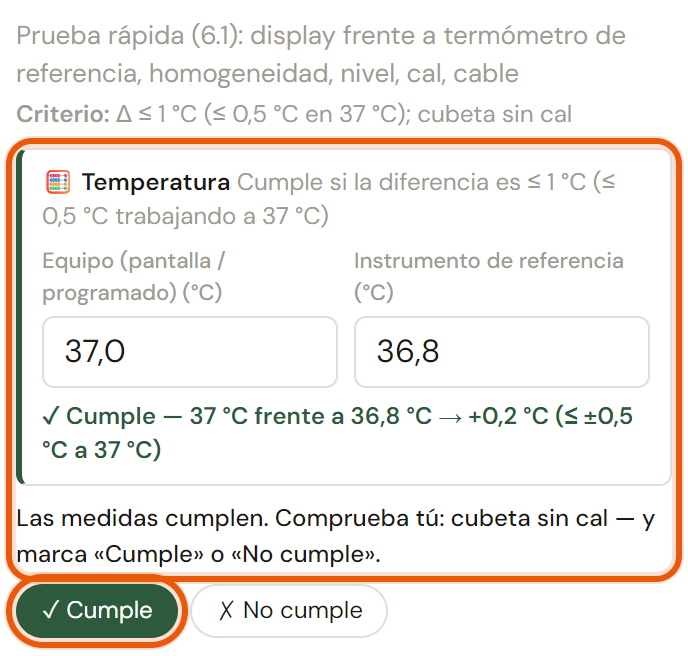
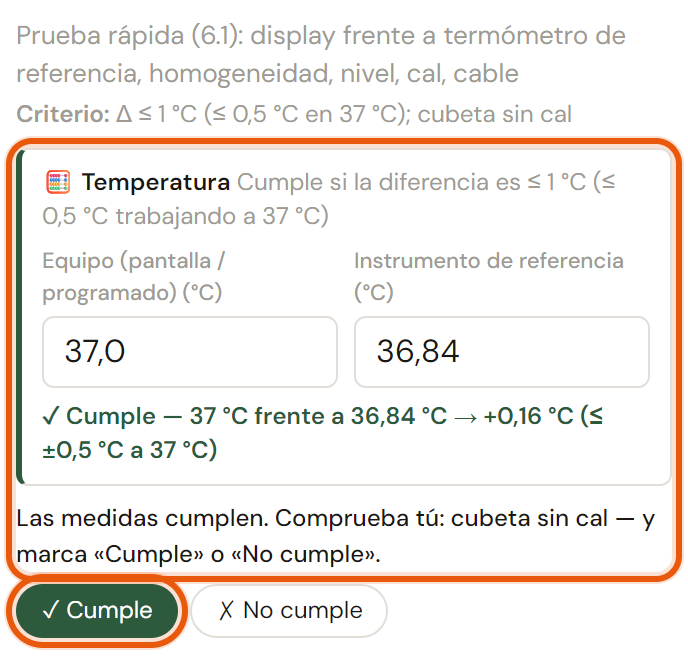
Ayuda › MAN-2: guion con la calculadora de criterios y lo que cambian los arreglos de hoy
- Paso 5: anotar las dos lecturas completas, sin redondear; paso 7: código del instrumento
  de referencia en Observaciones; puntos 1 y 2 de «Si una comprobación no cumple» del guion.
- Si algo no sale: equipos de otro laboratorio (sin plan a la vista) y aviso abierto.
- El aviso de avería dice adónde llega; título de EMP-2; sección «Cuando toca mantenimiento».
- Capturas rehechas.

Changed region(s): [[0.5799, 0.6098, 0.9157, 0.6707], [0.061, 0.6707, 0.3358, 0.7012], [0.641, 0.5183, 0.6715, 0.5488]]

diff --git a/js/ayuda.js b/js/ayuda.js
@@ -22,7 +22,7 @@ const AYUDA_MANUALES = {
     titulo: 'Manual del alumnado',
     intro: 'Lo que hace tu grupo en GestionLab, contado como tareas de laboratorio. Entras con la cuenta del grupo, y lo que registras sale a nombre del grupo.',
     secciones: [
-      { titulo: 'Mantenimiento de los equipos', tareas: ['MAN-2'] },
+      { titulo: 'Cuando toca mantenimiento', tareas: ['MAN-2'] },
     ],
   },
   Profesor: { titulo: 'Manual del profesorado', intro: '', secciones: [] },
@@ -77,7 +77,7 @@ const AYUDA_TAREAS = {
             texto: '**Hacer cada paso en el equipo y marcar su casilla al terminarlo**, no antes ni todos al final: el registro tiene que decir lo que se hizo, y marcar de memoria al final acaba marcando pasos que no se hicieron. Arriba a la derecha, el contador dice cuántos pasos van.',
           },
           {
-            texto: '**En las comprobaciones** (los pasos que llevan «Criterio:» debajo): medir y comparar con el criterio. Si el paso trae 🧮, escribir lo que marca el equipo y lo que mide el instrumento de referencia: la app hace la cuenta y dice si cumple; si no cumple, marca ella «✗ No cumple» y escribe las cifras en «¿Qué has visto?». Lo que no se mide con números aparece como «Comprueba tú: …»: mirarlo y pulsar «✓ Cumple» o «✗ No cumple». Si se pulsa el botón equivocado, pulsarlo otra vez lo desmarca.',
+            texto: '**En las comprobaciones** (los pasos que llevan «Criterio:» debajo): medir, comparar con el criterio y pulsar «✓ Cumple» o «✗ No cumple». Si el criterio lleva números, el paso trae 🧮 y pide lo que marca el equipo y lo que mide el instrumento de referencia: **anotar las dos lecturas completas, tal como salen (todos los decimales, sin redondear)**. La app hace la cuenta y decide sola si cumple; si no cumple, marca ella «✗ No cumple» y escribe las cifras en «¿Qué has visto?». Lo que no se mide con números aparece como «Comprueba tú: …»: mirarlo y pulsar «✓ Cumple» o «✗ No cumple». Si se pulsa el botón equivocado, pulsarlo otra vez lo desmarca.',
             img: 'MAN-2/04-comprobacion-con-calculadora.png',
             alt: 'Comprobación con calculadora: lectura del equipo y del termómetro de referencia, la app dice que cumple y se pulsa Cumple',
           },
@@ -90,7 +90,7 @@ const AYUDA_TAREAS = {
             texto: '**Si hay que parar**: «💾 Guardar progreso». Otro día, en la tarjeta del equipo saldrá «Continuar n/m» con lo que ya estaba marcado. Lo puede continuar cualquier grupo: el progreso es del equipo, no del grupo.',
           },
           {
-            texto: '**Escribir en «Observaciones»** lo que no esté en los pasos, como un paso que no se pudo hacer y por qué, algo raro en el equipo o los valores medidos si el protocolo pide anotarlos. «Fecha de realización» ya trae la de hoy y «Realizado por» ya trae el nombre del grupo.',
+            texto: '**Escribir en «Observaciones»** el código del instrumento de referencia que se ha usado (por ejemplo, TER-02 o TAC-01), para saber qué comprobaciones revisar si un día ese instrumento resulta estar mal; y lo que no esté en los pasos, como un paso que no se pudo hacer y por qué, algo raro en el equipo o los valores medidos si el protocolo pide anotarlos. «Fecha de realización» ya trae la de hoy y «Realizado por» ya trae el nombre del grupo.',
             img: 'MAN-2/06-observaciones-y-finalizar.png',
             alt: 'Parte de abajo de la ventana: fecha, realizado por, observaciones, aviso de visto bueno y botón Finalizar señalado',
           },
@@ -98,7 +98,7 @@ const AYUDA_TAREAS = {
             texto: '**Pulsar «Finalizar».** Si queda un paso sin marcar, la app pide confirmación («Quedan … paso(s) sin marcar»): confirmar solo si ese paso no aplica a este equipo y está explicado en Observaciones. Al terminar sale «Registrado. Queda a la espera del visto bueno del profesorado.»',
           },
           {
-            texto: '**Si alguna comprobación no cumplía, se abre «Notificar aviso»** con la descripción ya rellenada. Elegir en «¿Se puede seguir usando el equipo?» si se puede seguir usando y pulsar «Enviar aviso».',
+            texto: '**Si alguna comprobación no cumplía, se abre «Notificar aviso»** con la descripción ya rellenada. Elegir en «¿Se puede seguir usando el equipo?» si se puede seguir usando y pulsar «Enviar aviso». El aviso aparece en GestionLab al profesorado responsable del equipo y a quien abra el equipo; no se manda ningún correo.',
             img: 'MAN-2/07-aviso-de-averia.png',
             alt: 'Ventana Notificar aviso con la descripción ya escrita y las opciones de si se puede seguir usando el equipo',
           },
@@ -108,8 +108,8 @@ const AYUDA_TAREAS = {
             titulo: 'Si una comprobación no cumple',
             numerada: true,
             items: [
-              '**Antes de marcar «✗ No cumple», revisar cómo se ha hecho la comprobación**: lo que pida el protocolo (equipo nivelado o a temperatura, material de referencia correcto y limpio, lectura en las mismas unidades que el criterio). Si hay un error de procedimiento, corregirlo y repetir una vez. Si no lo hay, **no repetir hasta que salga bien**: un resultado que no cumple es un dato, y repetir hasta que cumpla lo esconde.',
-              '**Marcar «✗ No cumple» y escribir en «¿Qué has visto?» el valor medido, el criterio y las condiciones**, con números («lectura: …; criterio: …; condiciones: …»), no «no va bien». Quien firma y quien repare el equipo trabajan con esos datos.',
+              '**Antes de marcar «✗ No cumple», revisar cómo se ha hecho la comprobación**: lo que pida el protocolo (equipo nivelado o a temperatura, material de referencia correcto y limpio, lectura en las mismas unidades que el criterio). Si hay un error de procedimiento, corregirlo y repetir una vez. Si no lo hay, **no repetir hasta que salga bien ni cambiar las cifras para que la app diga «Cumple»**: un resultado que no cumple es un dato, y repetir o retocar hasta que cumpla lo esconde.',
+              '**Completar «¿Qué has visto?»**. Si la app ha decidido con las cifras, ya las ha escrito ahí: añadir las condiciones (dónde estaba la sonda o la pesa, cuánto tiempo se dejó estabilizar, qué instrumento de referencia se usó). Si no, marcar «✗ No cumple» y escribir el valor medido, el criterio y las condiciones, con números, no «no va bien». Quien firma y quien repare el equipo trabajan con esos datos.',
               '**Seguir con los demás pasos, salvo que el fallo sea peligroso** (calor, presión, electricidad, piezas que giran) **o el protocolo diga parar**. En ese caso, dejar el equipo como indique el apartado 10 de su protocolo y llamar al profesorado antes de seguir.',
               '**Hacer lo que diga el apartado 10, «Resolución de problemas», del protocolo para ese fallo.** En muchos equipos incluye poner la etiqueta «NO USAR».',
               '**En el aviso de avería, elegir con criterio si se puede seguir usando**: si los resultados del equipo dejan de ser fiables (una balanza que pesa mal, una estufa fuera de temperatura), elegir «No funciona». Un equipo que mide mal no sirve aunque encienda.',
@@ -126,16 +126,18 @@ const AYUDA_TAREAS = {
         problemas: [
           ['No sale «Registrar», solo «Pendiente»', 'ese mantenimiento lo hace el profesorado (🔒 solo profesorado) o una empresa.'],
           ['El mantenimiento no está en la lista', 'puede que todavía no toque (solo salen los que ya han vencido), que otro grupo ya lo haya finalizado (está esperando el visto bueno) o que el profesorado lo haya marcado como «no aplica» o lo haya aplazado.'],
+          ['La tarjeta del equipo no enseña su plan de mantenimiento', 'el equipo no está en un laboratorio de tu grupo: cada grupo ve y registra los mantenimientos de los equipos de sus laboratorios y de la zona común. Los de los demás los hace otro grupo o el profesorado.'],
+          ['La tarjeta del equipo enseña un aviso abierto («🚫 No funciona», por ejemplo)', 'léelo y pregunta al profesorado antes de empezar.'],
           ['Estaba empezado', '«Continuar n/m» y seguir desde donde se dejó.'],
           ['Se ha marcado un paso por error', 'desmarcarlo antes de finalizar. Si ya está finalizado, decírselo al profesorado, que puede devolverlo para corregirlo.'],
           ['Un paso no se puede hacer (falta material, el equipo no tiene esa pieza)', 'no marcarlo, explicarlo en Observaciones y avisar al profesorado. Si falta material, guardar el progreso y terminar otro día.'],
-          ['Al guardar sale «Tu sesión ha caducado»', 'volver a entrar ([[EMP-2|La app no guarda lo que apuntas]]) y comprobar qué quedó guardado.'],
+          ['Al guardar sale «Tu sesión ha caducado»', 'volver a entrar ([[EMP-2|La app no guarda lo que apuntas (sesión caducada)]]) y comprobar qué quedó guardado.'],
           ['En el móvil, «Registrar» queda fuera de la pantalla en «Pendientes»', 'desplazar la tabla hacia la izquierda, o entrar por la tarjeta del equipo.'],
         ],
         relacionado: [
           ['Antes', [['EQU-1', 'Encontrar un equipo'], ['MAN-1', 'Ver qué mantenimientos tocan'], ['EQU-2', 'Consultar cómo se usa un equipo']]],
           ['Después', [['INC-1', 'Avisar de una avería']]],
-          ['Si falla la app', [['EMP-2', 'La app no guarda lo que apuntas']]],
+          ['Si falla la app', [['EMP-2', 'La app no guarda lo que apuntas (sesión caducada)']]],
         ],
       },
     },

diff --git a/tools/capturas-ayuda/MAN-2.js b/tools/capturas-ayuda/MAN-2.js
@@ -93,7 +93,7 @@ async (page, { app: APP, salida: SALIDA }) => {
     document.querySelectorAll('.ayuda-senal').forEach(e => e.classList.remove('ayuda-senal'));
     const paso = document.querySelector('#mant-checklist [data-idx="0"]');
     const pon = (k, v) => { const inp = paso.querySelector(`.mant-calc input[data-k="${k}"]`); if (inp) { inp.value = v; inp.dispatchEvent(new Event('input')); } };
-    pon('equipo', '37,0'); pon('referencia', '36,8');
+    pon('equipo', '37,0'); pon('referencia', '36,84');
     _mantMarcarCriterio(0, 'cumple');
     paso.querySelector('.mant-btn-cumple').classList.add('ayuda-senal');
     paso.querySelector('.mant-calc').classList.add('ayuda-senal');
@@ -119,7 +119,7 @@ async (page, { app: APP, salida: SALIDA }) => {
   // 6 · Observaciones y «Finalizar»
   await page.evaluate(() => {
     document.querySelectorAll('.ayuda-senal').forEach(e => e.classList.remove('ayuda-senal'));
-    document.getElementById('mant-observaciones').value = 'Agua de red. Descalcificado con vinagre.';
+    document.getElementById('mant-observaciones').value = 'Termómetro de referencia: TER-02. Agua de red; descalcificado con vinagre.';
     document.getElementById('mant-btn-principal').classList.add('ayuda-senal');
     document.getElementById('mant-btn-principal').scrollIntoView({ block: 'end' });
   });
